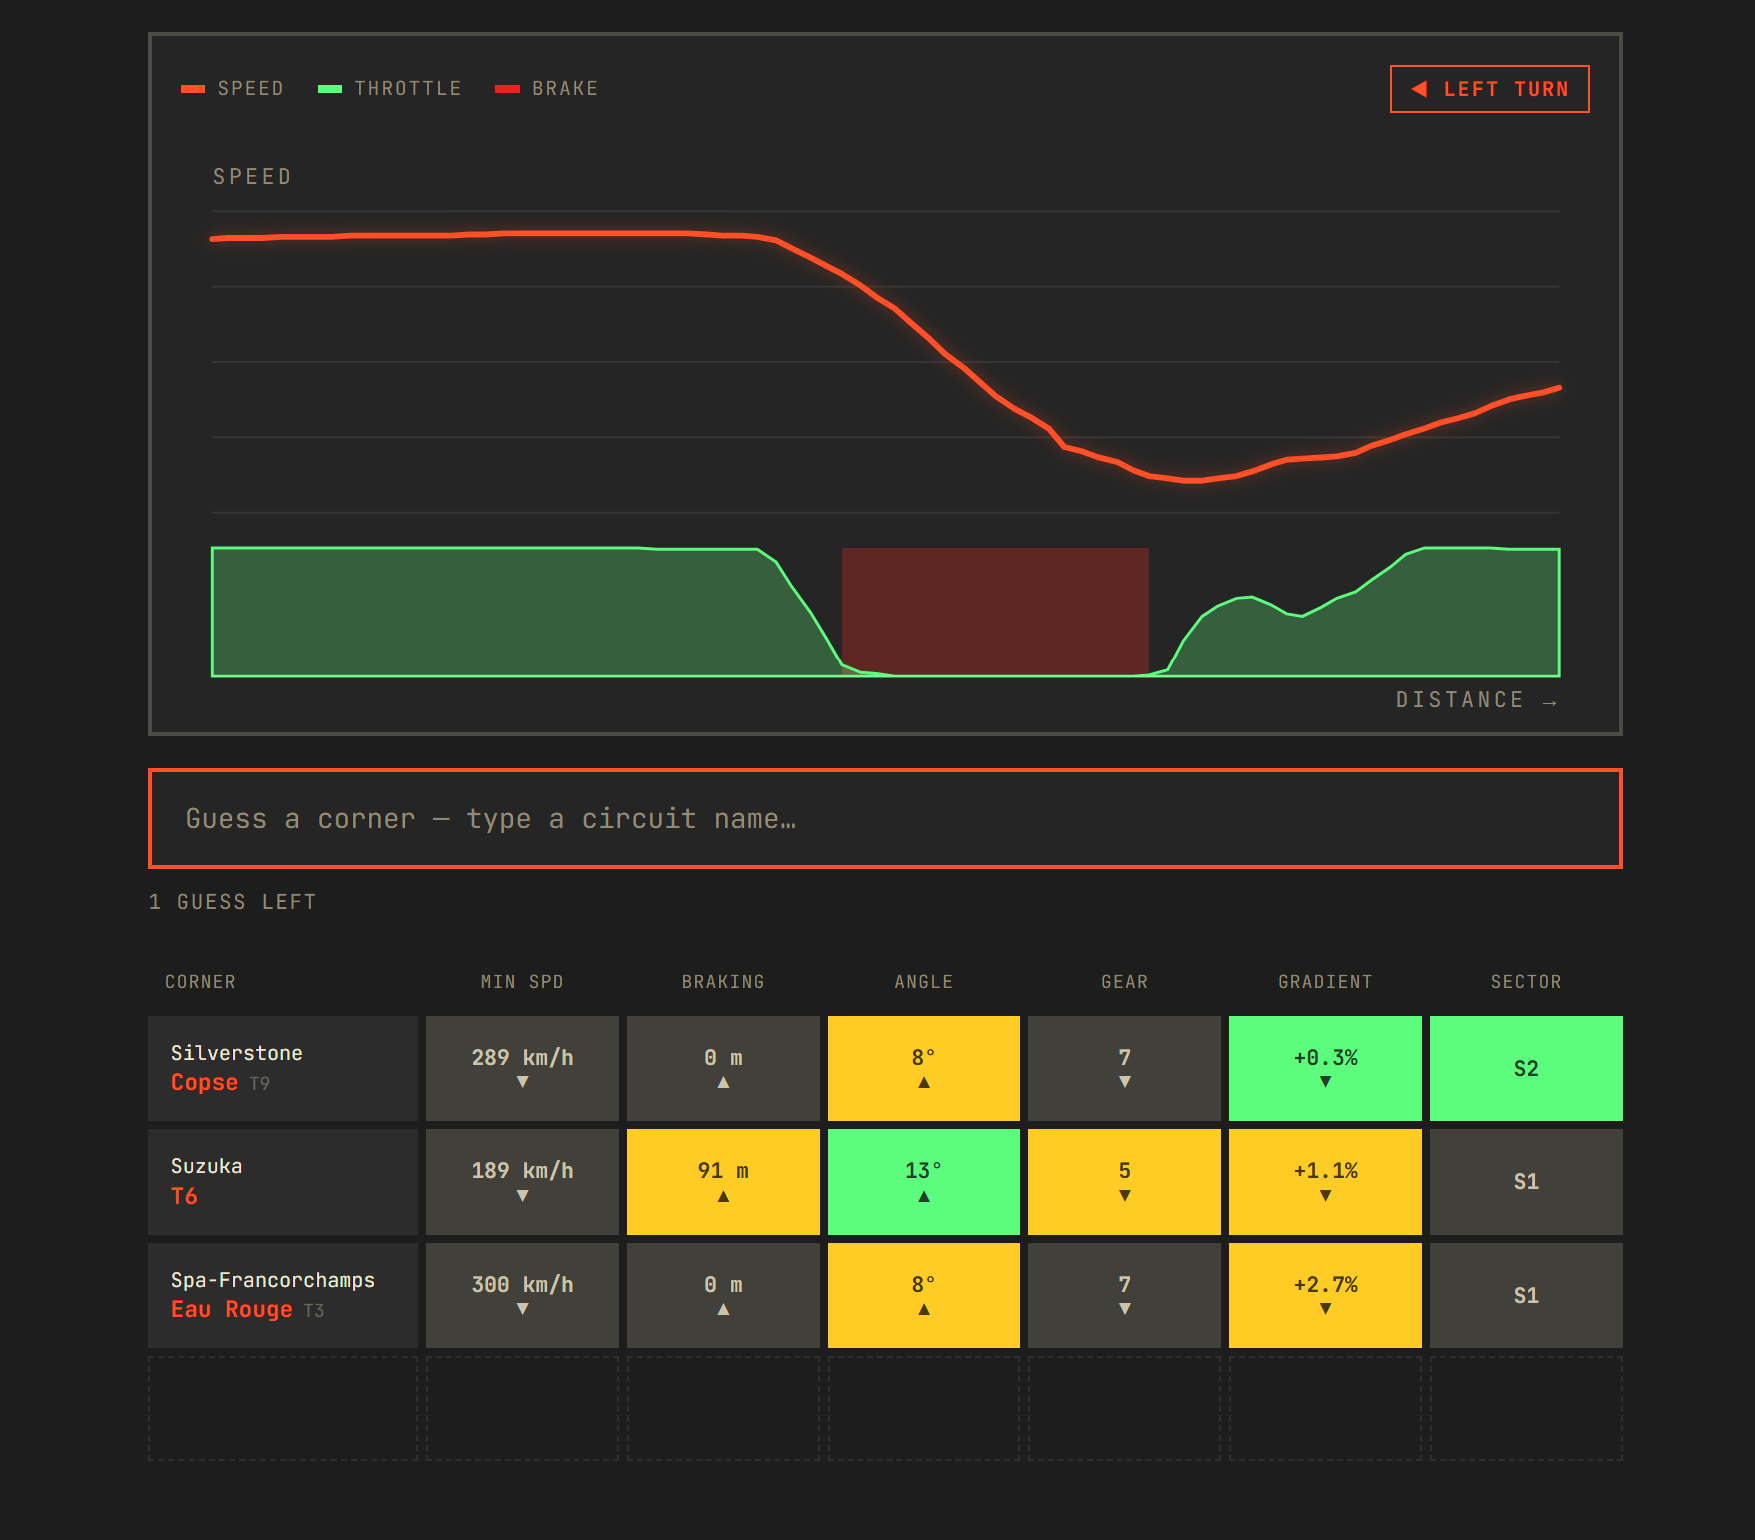
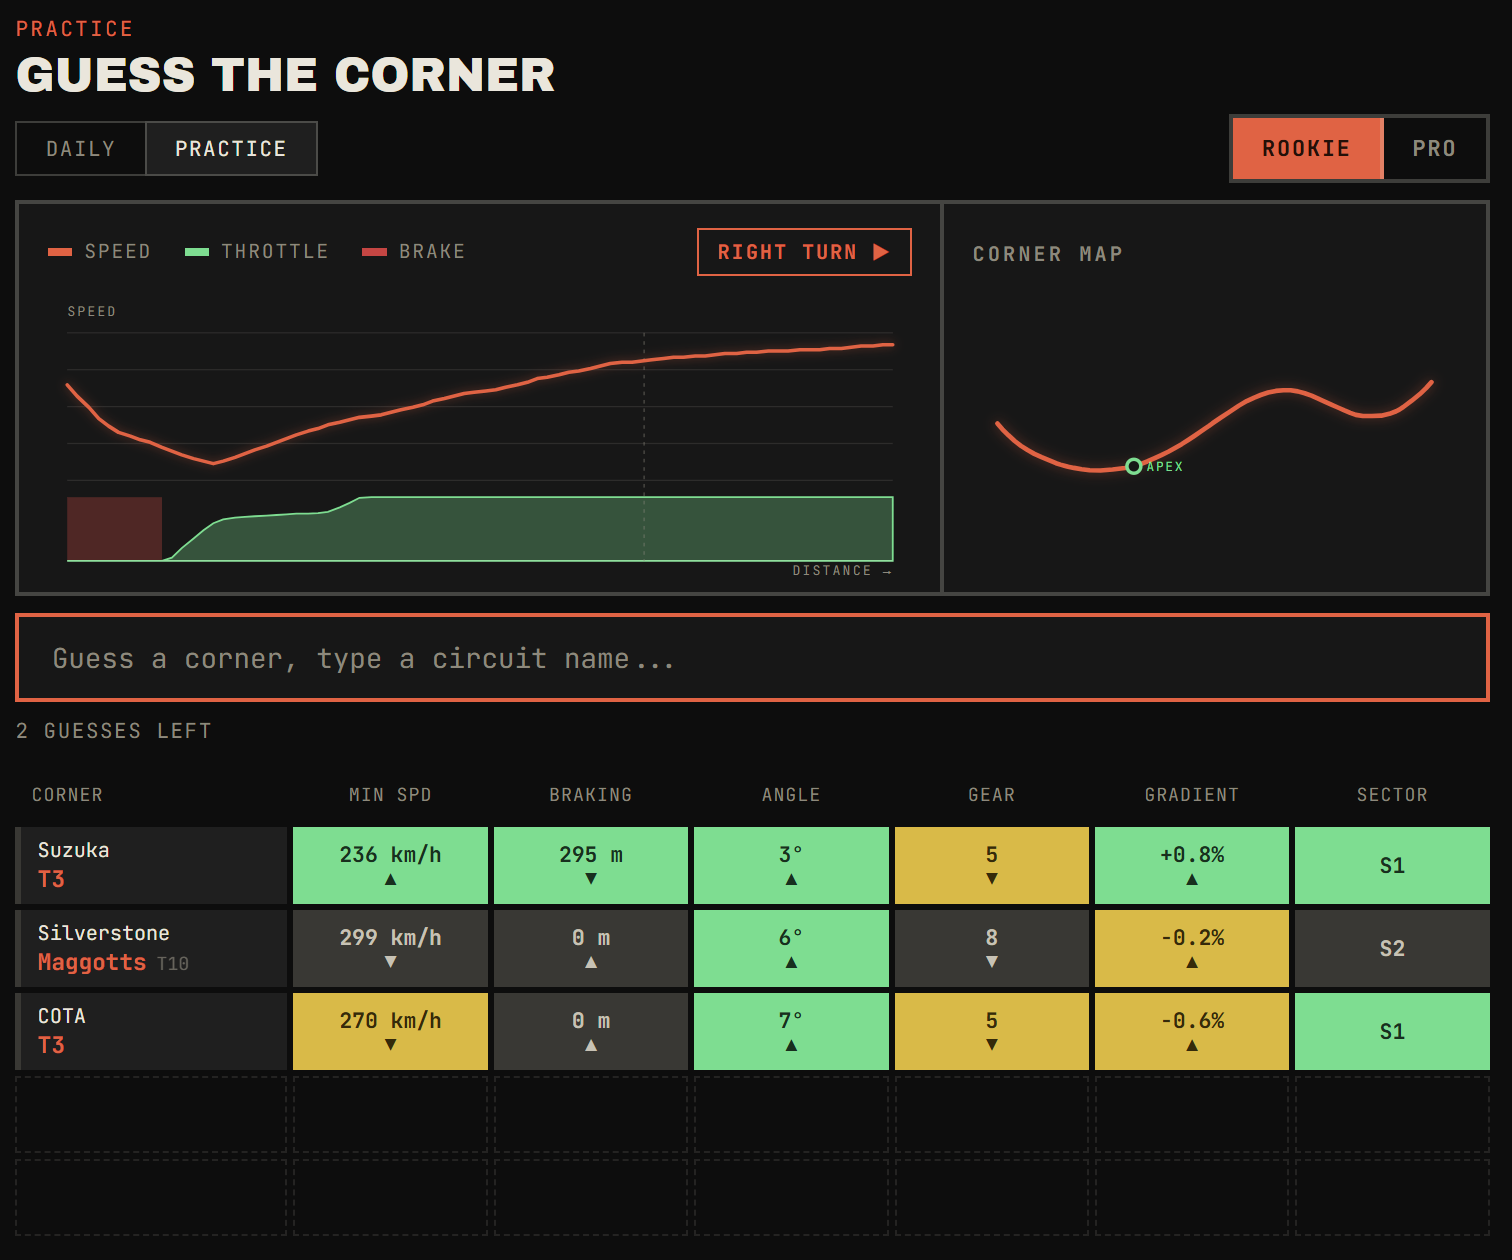
Added Slate and updated photos link

diff --git a/src/data/projects.ts b/src/data/projects.ts
@@ -29,13 +29,30 @@ export const PROJECTS_DATA: Project[] = [
       "Using real telemetry data, you guess the corner of an F1 track, in a wordle-style daily game.",
     image: "/images/projects/apexle-cover.jpg",
     imageFocus: "top",
-    tags: ["Website", "UI/UX Design"],
+    tags: ["Website", "UI/UX Design", "Real-World Data"],
     featured: true,
     featuredOrder: 2,
     inDevelopment: true,
     links: {
       play: "https://apexle.dexo.games",
       github: "https://github.com/DexoGames/Apexle",
+    },
+  },
+    {
+      id: "project3",
+    title: "Slate",
+    subtext: "Film Studio Sim",
+    description:
+      "Take the helm of a new studio, hire directors and actors, address compromises, promote, and try to make a hit!",
+    image: "/images/projects/slate-cover.jpg",
+    imageFocus: "top",
+    tags: ["Website", "UI/UX Design"],
+    featured: true,
+    featuredOrder: 3,
+    inDevelopment: true,
+    links: {
+      play: "https://slate.dexo.games",
+      github: "https://github.com/DexoGames/Slate",
     },
   },
 ];

diff --git a/src/components/PhotosStrip/PhotosStrip.tsx b/src/components/PhotosStrip/PhotosStrip.tsx
@@ -18,7 +18,7 @@ export function PhotosStrip() {
           <SectionHeader
             icon="fa-camera"
             label="Dexo Photos"
-            description="Photography from wherever I happen to be."
+            description="I also do photography!."
             tone="black"
           />
         </div>
@@ -42,10 +42,10 @@ export function PhotosStrip() {
       </div>
 
       <div className={styles.btnWrapper}>
-        <Link to="/photos" className={styles.viewMoreBtn}>
+        <a href="https://photos.dexo.games/" className={styles.viewMoreBtn}>
           <span>View all photos</span>
           <i className="fas fa-arrow-right"></i>
-        </Link>
+        </a>
       </div>
     </section>
   );
